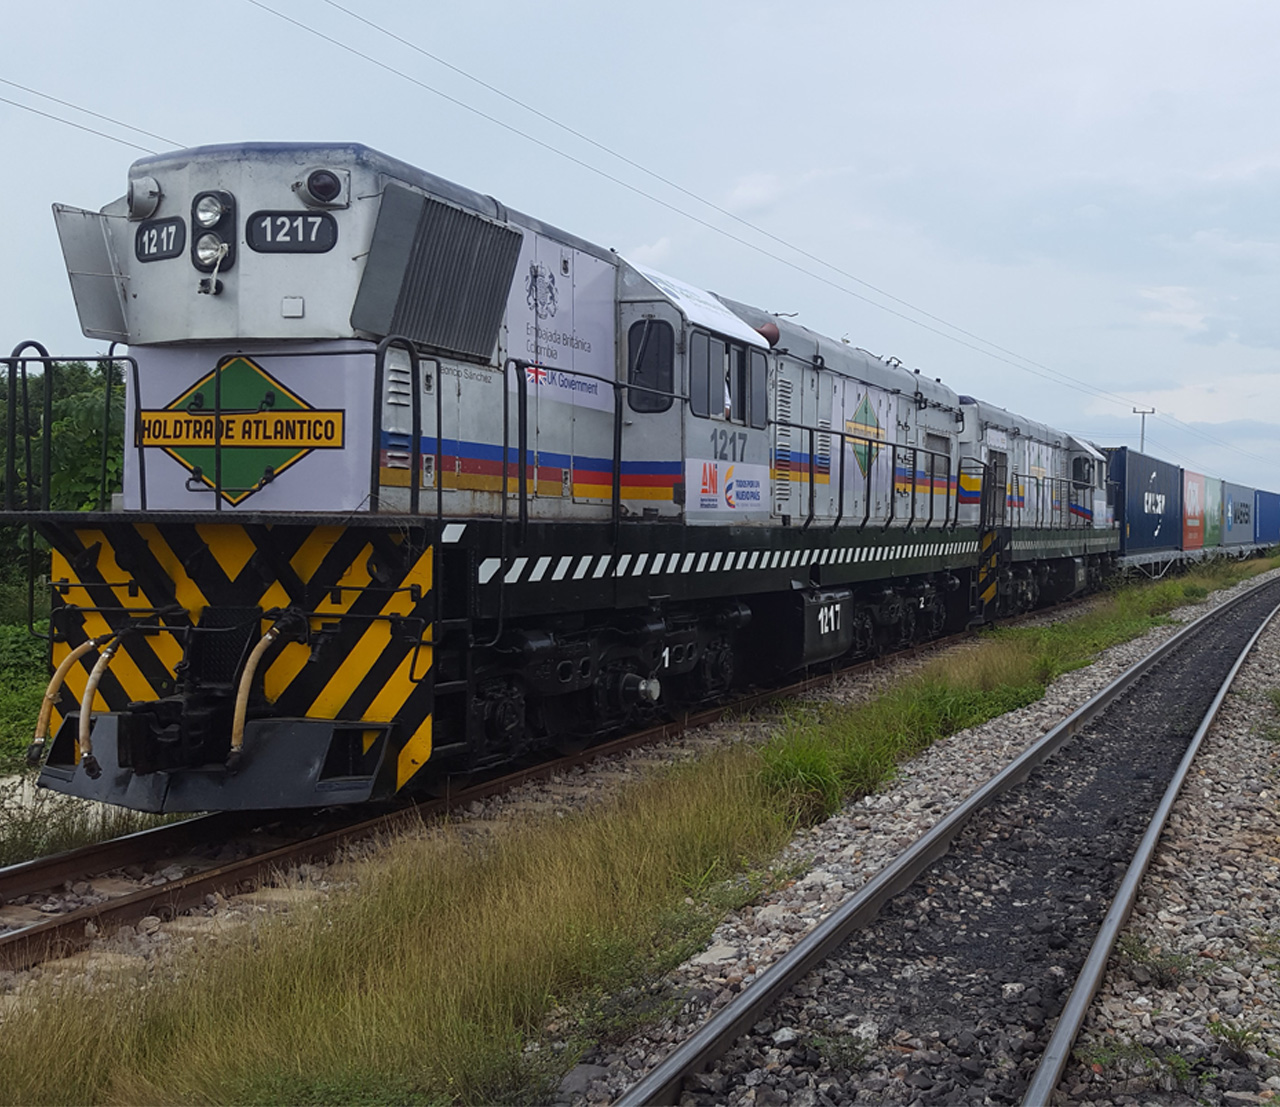
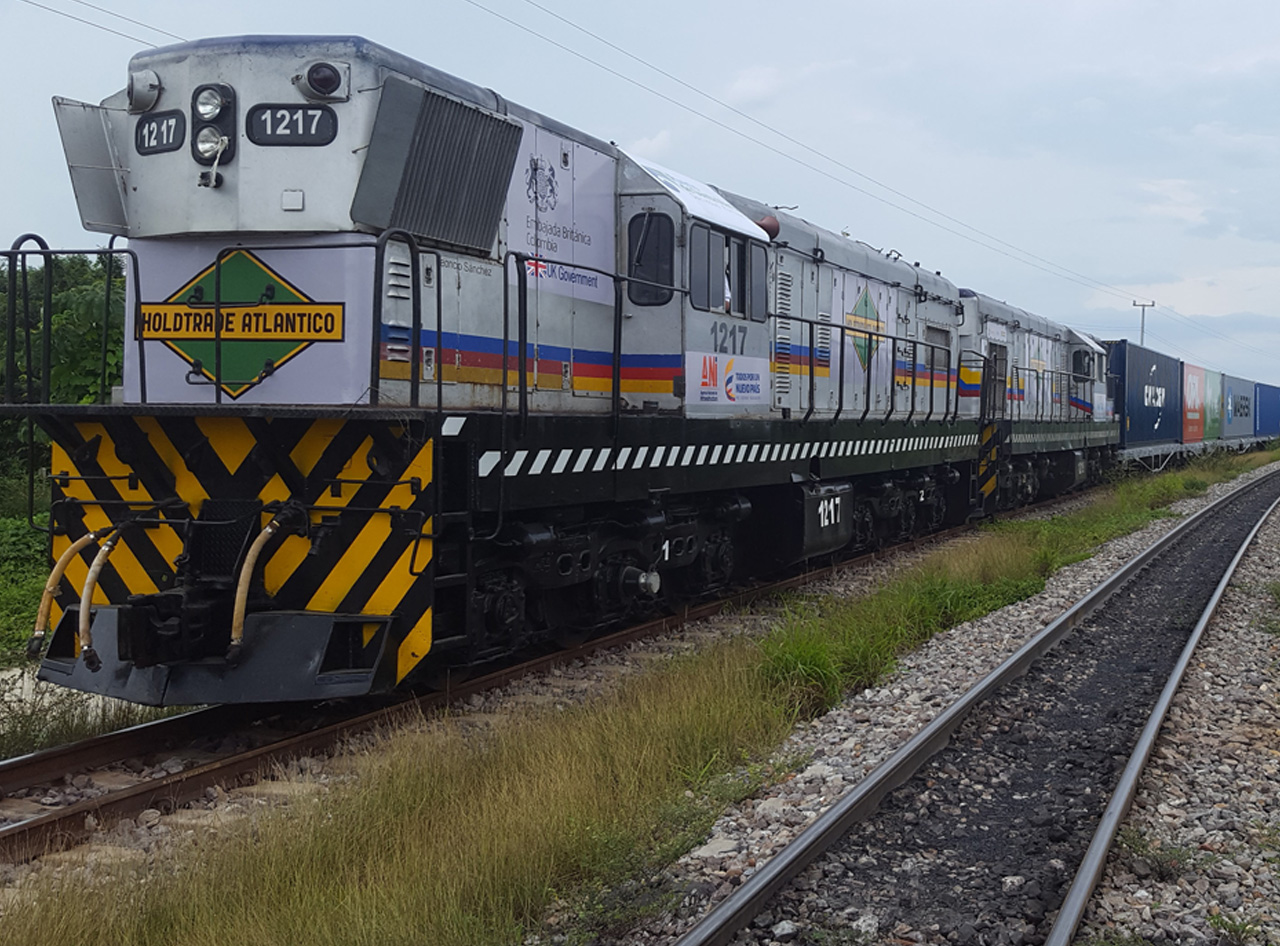
Hero/gallery fixes
Made hero image scale with the browser - image is now in the html and
not in the css
gallery images scale with the browser.

diff --git a/index.html b/index.html
@@ -81,6 +81,7 @@
 <!-- HERO SECTION 
 ======================== -->    
 <div class="hero clearfix">
+   <img src="images/HoldtradeAtlantico-Freight-Train.jpg" width="100%" alt="Holdtrade Freight Train">
     <div class="headline">
         <h1>Cost Efficient<br>Freight Rail Service</h1>
         <p>Holdtrade is the UK’s largest supplier of track and related<br>materials for industrial railways.</p>
@@ -113,21 +114,22 @@
    <p><strong>Holdtrade Atlantico</strong> a joint venture between Holdtrade (UK) Ltd. of London and Iowa Pacific Holdings, LLC of Chicago, plans to provide rail freight services in Colombia in association with local partners. Capitalizing on the combined expertise of both Holdtrade and Iowa Pacific, Holdtrade Atlantico will provide rail tratnsportation services over rail routes that ANI, the Colombian infrastructure agency, is planning to return to service. Such rail services will reduce transportation costs for Colombian producers, thus improving the competitive position of Colombian products on world markets. Cost efficient freight rail service also has the potential reduce transportation costs for imported products, thus benefitting Colombian consumers. Rail transportation provides the additional advantages of being environmentally friendly and reducing highway truck traffic. Holdtrade is the UK’s largest supplier of track and related materials for industrial railways. In addition, Holdtrade is the exclusive representative in Latin America of Transnet Engineering, which is the world’s largest manufacturer and operator of narrow gauge locomotives and freight wagons, such as will be utilized in Colombia.</p>
     <p>Iowa Pacific operates nine railways serving eight states in the U. S. Two of its railways won the prestigious 2013 Marketing Award of the American Short Line and Regional Railroad Association. Through an affiliated company, Iowa Pacific operates three railways in the United Kingdom, along with railway-related services such as locomotive leasing, track maintenance and track construction.</p> 
 </div><!-- .container intro-text -->
+
 <div class="container">
-    <div class="gallery">
-        <div class="intro-img">
-            <img src="images/gallery-freight-train.jpg" alt="Freight Train">
-            <p><caption>Freight train coming around the bend.</caption></p>
-        </div>
-        <div class="intro-img">
-            <img src="images/gallery-mountain-train.jpg" alt="Cargo Train">
-            <p><caption>Making the long haul in the highlands.</caption></p>
-        </div>
-        <div class="intro-img">
-            <img src="images/gallery-glamour-train.jpg" alt="Freight Locomotive">
-            <p><caption>Locomotive engine</caption></p>
-        </div>
-    </div><!-- gallery -->
+       <div class="gallery">
+            <div class="intro-img">
+                <img src="images/gallery-freight-train.jpg" alt="Freight Train">
+                <p><small>Freight train coming around the bend.</small></p>
+            </div>
+            <div class="intro-img">
+                <img src="images/gallery-mountain-train.jpg" alt="Cargo Train">
+                <p><small>Making the long haul in the highlands.</small></p>
+            </div>
+            <div class="intro-img">
+                <img src="images/gallery-glamour-train.jpg" alt="Freight Locomotive">
+                <p><small>Locomotive engine</small></p>
+            </div>
+        </div><!-- .gallery -->
 </div><!-- .container -->
 
 <!-- PARTNERS SECTION 

diff --git a/styles/main.css b/styles/main.css
@@ -100,20 +100,32 @@ nav ul li:hover > ul{
 }
 
 /* ====== Hero Section ====== */
-.hero{
+/*.hero{
 	background: url("../images/HoldtradeAtlantico-Freight-Train.jpg") 50% 68% no-repeat;
 	height: 946px;
 	position: relative;
-	width: 100%;
+	max-width: 100%;
 	padding:40px 20px 0 0;
     margin:0;
     z-index:-1;
     display:block;
+}*/
+.hero img{
+    margin:0;
+}
+.hero{
+    position:relative;
+    z-index:-100;
+    overflow: hidden;
+    margin:0;
 }
 .headline{
     float:right;
     font-family:helvetica;
-    margin:-40px 40px 0 0;
+    /*margin:-40px 40px 0 0;*/
+    position:absolute;
+    top:20px;
+    right:20px;
 }
 .headline h1{
     color:#001d45;
@@ -154,6 +166,7 @@ nav ul li:hover > ul{
 }
 .icon-box img{
     margin:20px 0 30px 0;
+    max-width:100%;
 }
 .icon-box h2{
     font-size:24px;
@@ -179,9 +192,10 @@ nav ul li:hover > ul{
     background-color:#001d45;
     letter-spacing:.05em;
     font-weight:400;
+    margin:-3px 0 0 0;
 }
 .intro-text{
-    margin-top:54px;
+    margin:54px auto;
 }
 .intro-text p{
     line-height: 28px;
@@ -195,10 +209,16 @@ nav ul li:hover > ul{
 .gallery{
     display:flex;
     justify-content:space-between;
-    margin:54px 0;
+}
+.intro-img img{
+    max-width:100%;
+    border:solid 1px #d1d3d3;
+}
+.intro-img:nth-child(2){
+    margin:0 5%;
 }
 .gallery p{
-    margin:10px 0 0 2px;
+    margin:5px 0 54px 2px;
 }
 .banner-partners{
     width:100%;
